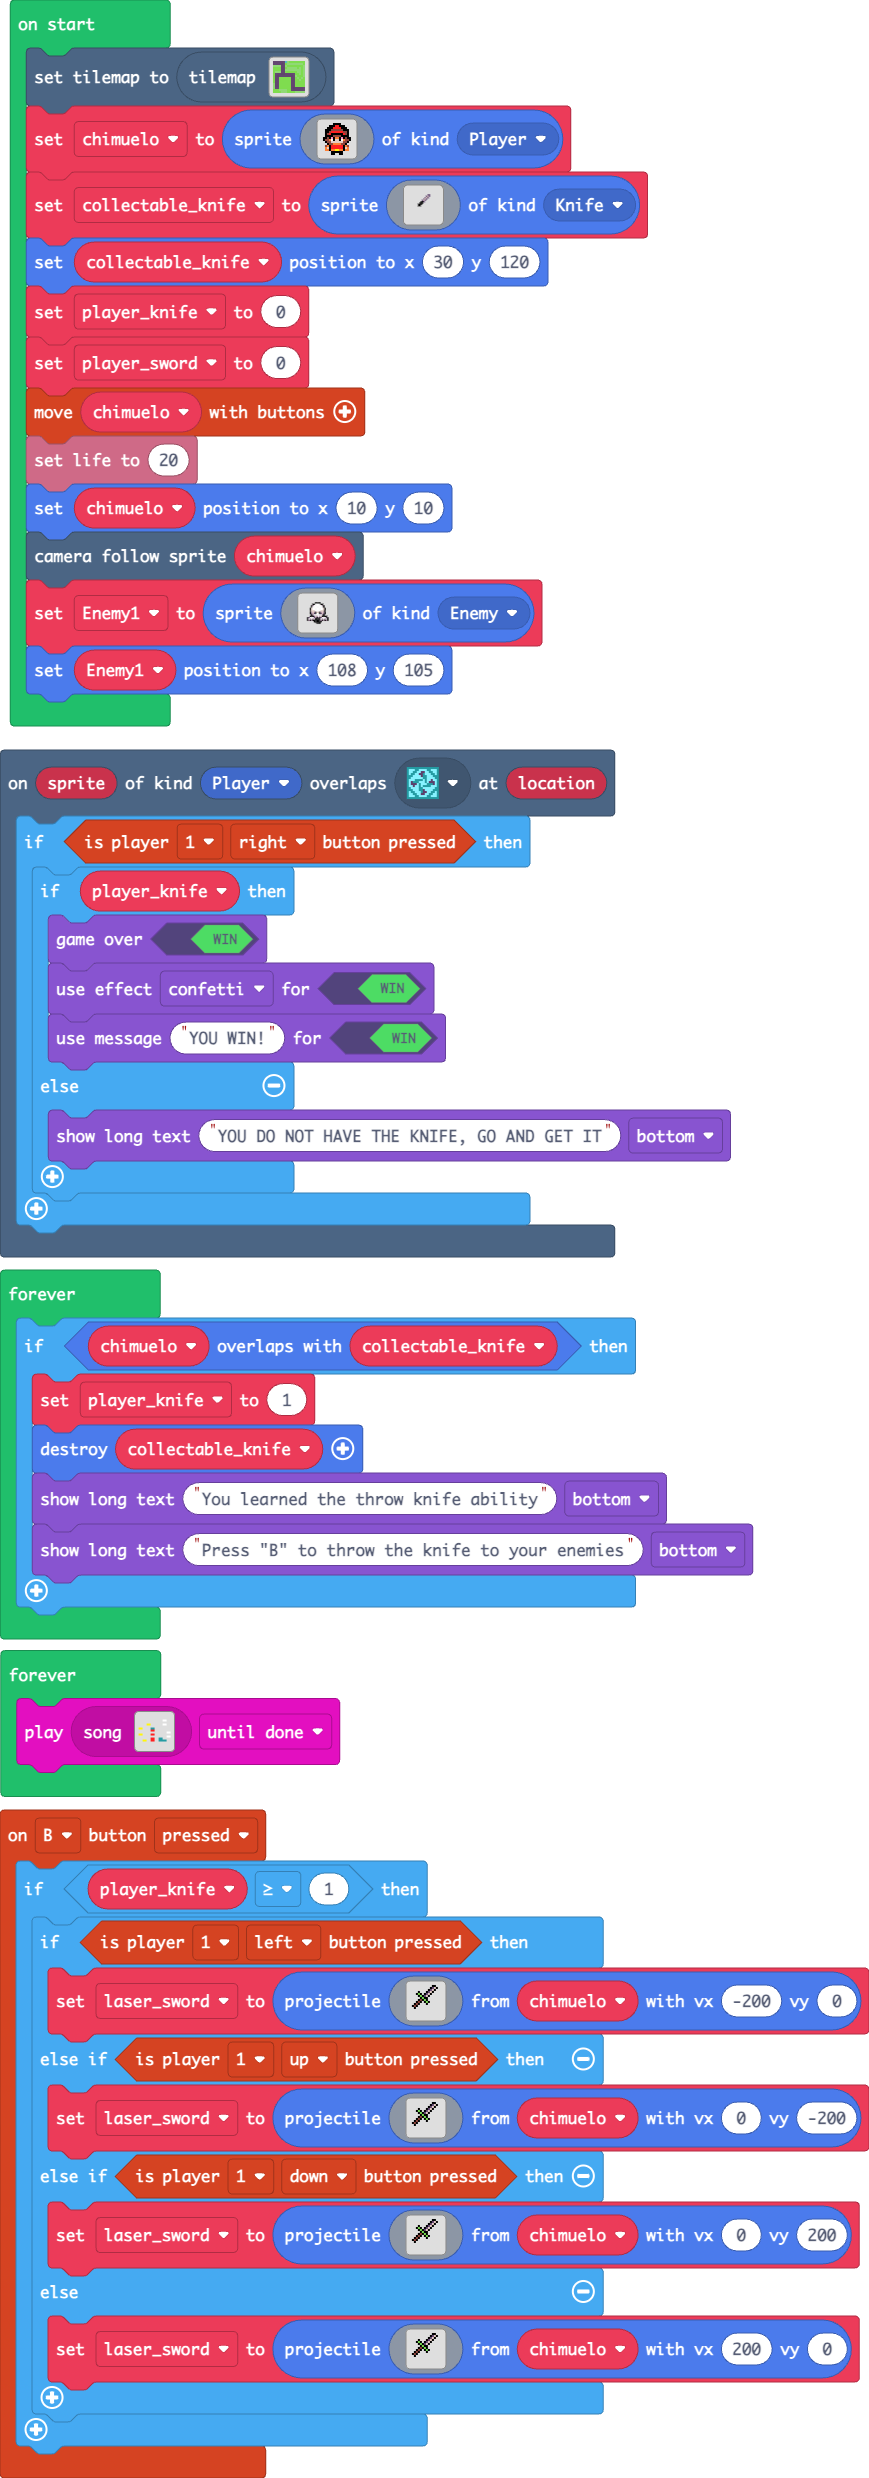
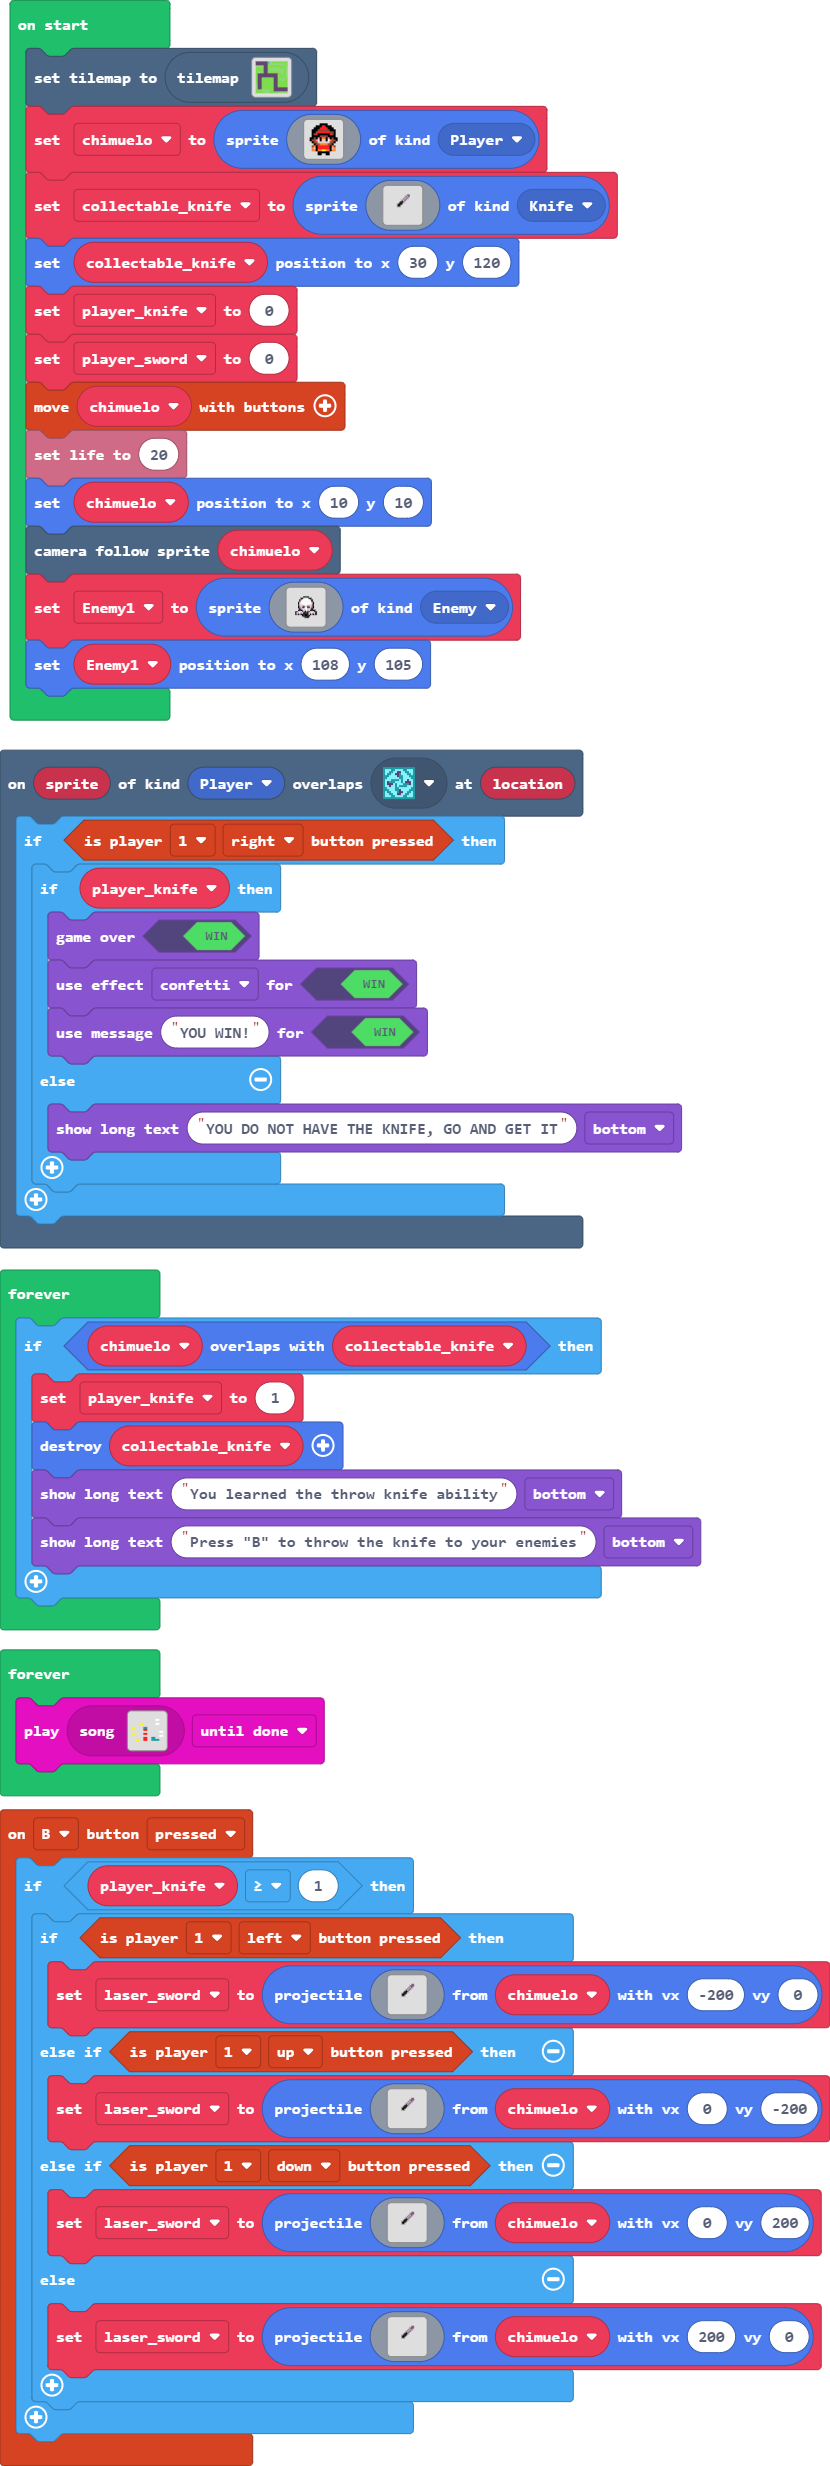
He cambiado el proyectil de chimuelo.

Changed region(s): [[0.0, 0.0, 0.994, 0.9992]]

diff --git a/main.ts b/main.ts
@@ -7,79 +7,111 @@ controller.B.onEvent(ControllerButtonEvent.Pressed, function () {
     if (player_knife >= 1) {
         if (controller.player1.isPressed(ControllerButton.Left)) {
             laser_sword = sprites.createProjectileFromSprite(img`
-                . . . . . . . . . . . f f . . . 
-                . . . . . . . . . . f c d f . . 
-                . . . . . . . . . f c d f . . . 
-                . . . . f . . . f c d f . . . . 
-                . . . f 7 f . f c d f . . . . . 
-                . . . . f 7 f c d f . . . . . . 
-                . . . . . f 7 f f . . . . . . . 
-                . . . . f e f 7 f . . . . . . . 
-                . . . f e f . f 7 f . . . . . . 
-                . . f e f . . . f . . . . . . . 
-                . f e f . . . . . . . . . . . . 
-                . . f . . . . . . . . . . . . . 
-                . . . . . . . . . . . . . . . . 
-                . . . . . . . . . . . . . . . . 
-                . . . . . . . . . . . . . . . . 
-                . . . . . . . . . . . . . . . . 
+                ........................
+                ........................
+                ........................
+                ........................
+                ...............cc.......
+                ..............c2c.......
+                .............cdc........
+                ............cdc.........
+                ...........cdc..........
+                ..........ffc...........
+                .........fff............
+                ........fff.............
+                ........ff..............
+                ........................
+                ........................
+                ........................
+                ........................
+                ........................
+                ........................
+                ........................
+                ........................
+                ........................
+                ........................
+                ........................
                 `, chimuelo, -200, 0)
         } else if (controller.player1.isPressed(ControllerButton.Up)) {
             laser_sword = sprites.createProjectileFromSprite(img`
-                . . . . . . . . . . . f f . . . 
-                . . . . . . . . . . f c d f . . 
-                . . . . . . . . . f c d f . . . 
-                . . . . f . . . f c d f . . . . 
-                . . . f 7 f . f c d f . . . . . 
-                . . . . f 7 f c d f . . . . . . 
-                . . . . . f 7 f f . . . . . . . 
-                . . . . f e f 7 f . . . . . . . 
-                . . . f e f . f 7 f . . . . . . 
-                . . f e f . . . f . . . . . . . 
-                . f e f . . . . . . . . . . . . 
-                . . f . . . . . . . . . . . . . 
-                . . . . . . . . . . . . . . . . 
-                . . . . . . . . . . . . . . . . 
-                . . . . . . . . . . . . . . . . 
-                . . . . . . . . . . . . . . . . 
+                ........................
+                ........................
+                ........................
+                ........................
+                ...............cc.......
+                ..............c2c.......
+                .............cdc........
+                ............cdc.........
+                ...........cdc..........
+                ..........ffc...........
+                .........fff............
+                ........fff.............
+                ........ff..............
+                ........................
+                ........................
+                ........................
+                ........................
+                ........................
+                ........................
+                ........................
+                ........................
+                ........................
+                ........................
+                ........................
                 `, chimuelo, 0, -200)
         } else if (controller.player1.isPressed(ControllerButton.Down)) {
             laser_sword = sprites.createProjectileFromSprite(img`
-                . . . . . . . . . . . f f . . . 
-                . . . . . . . . . . f c d f . . 
-                . . . . . . . . . f c d f . . . 
-                . . . . f . . . f c d f . . . . 
-                . . . f 7 f . f c d f . . . . . 
-                . . . . f 7 f c d f . . . . . . 
-                . . . . . f 7 f f . . . . . . . 
-                . . . . f e f 7 f . . . . . . . 
-                . . . f e f . f 7 f . . . . . . 
-                . . f e f . . . f . . . . . . . 
-                . f e f . . . . . . . . . . . . 
-                . . f . . . . . . . . . . . . . 
-                . . . . . . . . . . . . . . . . 
-                . . . . . . . . . . . . . . . . 
-                . . . . . . . . . . . . . . . . 
-                . . . . . . . . . . . . . . . . 
+                ........................
+                ........................
+                ........................
+                ........................
+                ...............cc.......
+                ..............c2c.......
+                .............cdc........
+                ............cdc.........
+                ...........cdc..........
+                ..........ffc...........
+                .........fff............
+                ........fff.............
+                ........ff..............
+                ........................
+                ........................
+                ........................
+                ........................
+                ........................
+                ........................
+                ........................
+                ........................
+                ........................
+                ........................
+                ........................
                 `, chimuelo, 0, 200)
         } else {
             laser_sword = sprites.createProjectileFromSprite(img`
-                . . . . . . . . . . . f f . . . 
-                . . . . . . . . . . f c d f . . 
-                . . . . . . . . . f c d f . . . 
-                . . . . f . . . f c d f . . . . 
-                . . . f 7 f . f c d f . . . . . 
-                . . . . f 7 f c d f . . . . . . 
-                . . . . . f 7 f f . . . . . . . 
-                . . . . f e f 7 f . . . . . . . 
-                . . . f e f . f 7 f . . . . . . 
-                . . f e f . . . f . . . . . . . 
-                . f e f . . . . . . . . . . . . 
-                . . f . . . . . . . . . . . . . 
-                . . . . . . . . . . . . . . . . 
-                . . . . . . . . . . . . . . . . 
-                . . . . . . . . . . . . . . . . 
-                . . . . . . . . . . . . . . . . 
+                ........................
+                ........................
+                ........................
+                ........................
+                ...............cc.......
+                ..............c2c.......
+                .............cdc........
+                ............cdc.........
+                ...........cdc..........
+                ..........ffc...........
+                .........fff............
+                ........fff.............
+                ........ff..............
+                ........................
+                ........................
+                ........................
+                ........................
+                ........................
+                ........................
+                ........................
+                ........................
+                ........................
+                ........................
+                ........................
                 `, chimuelo, 200, 0)
         }
     }
